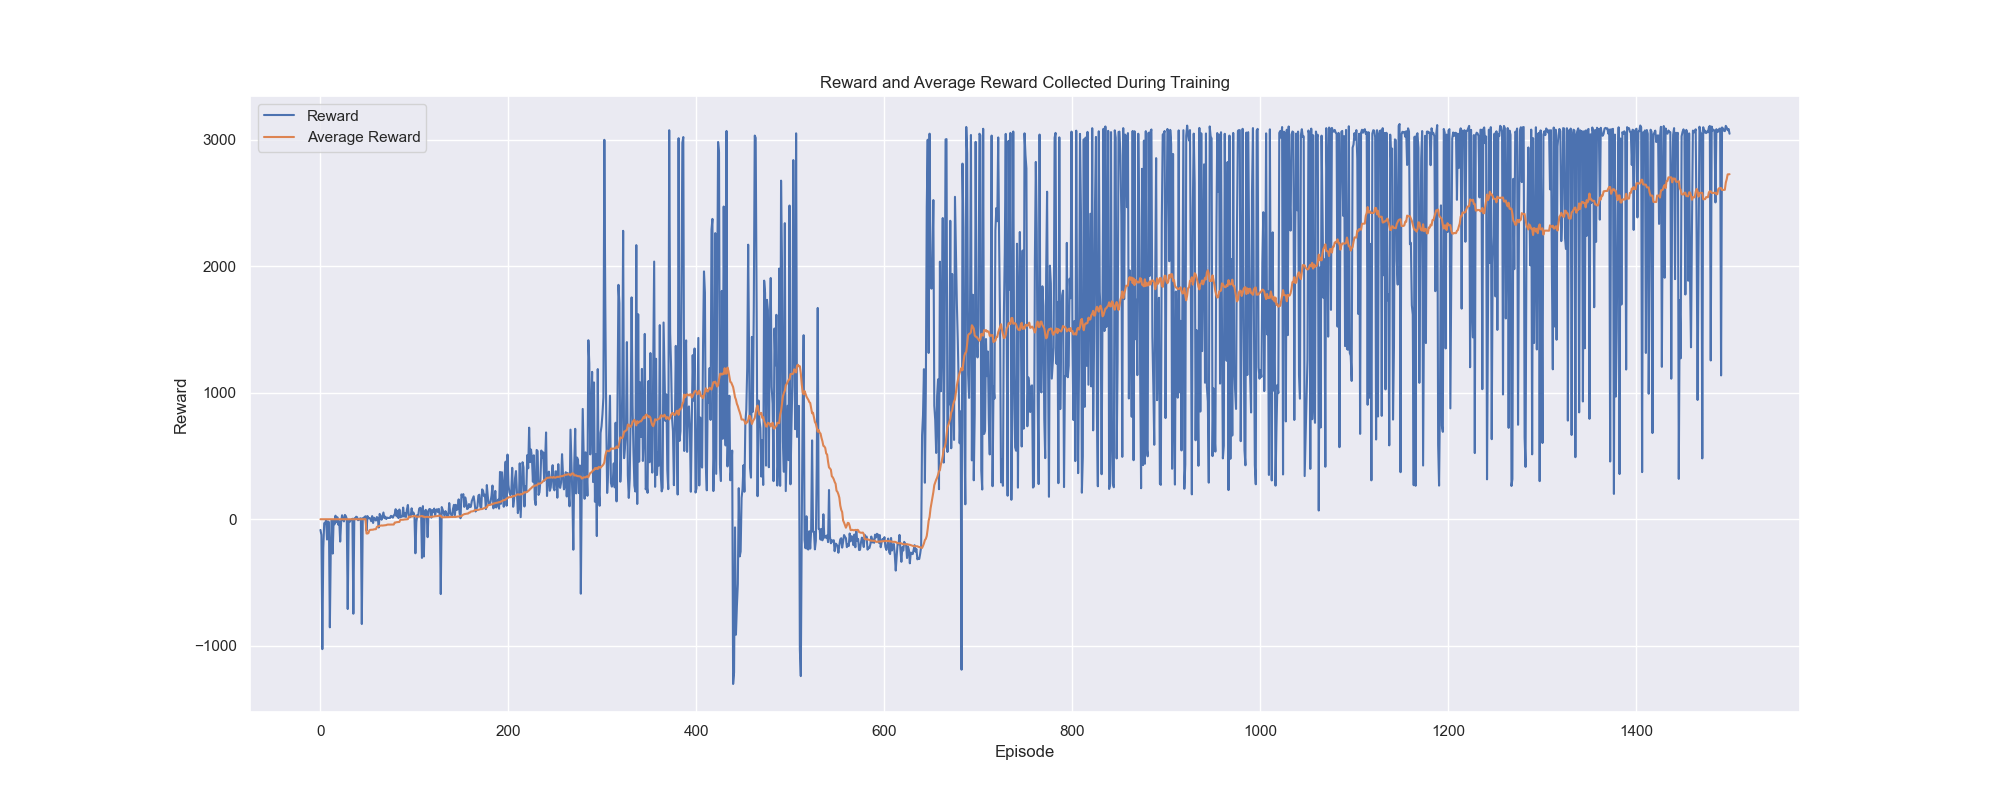
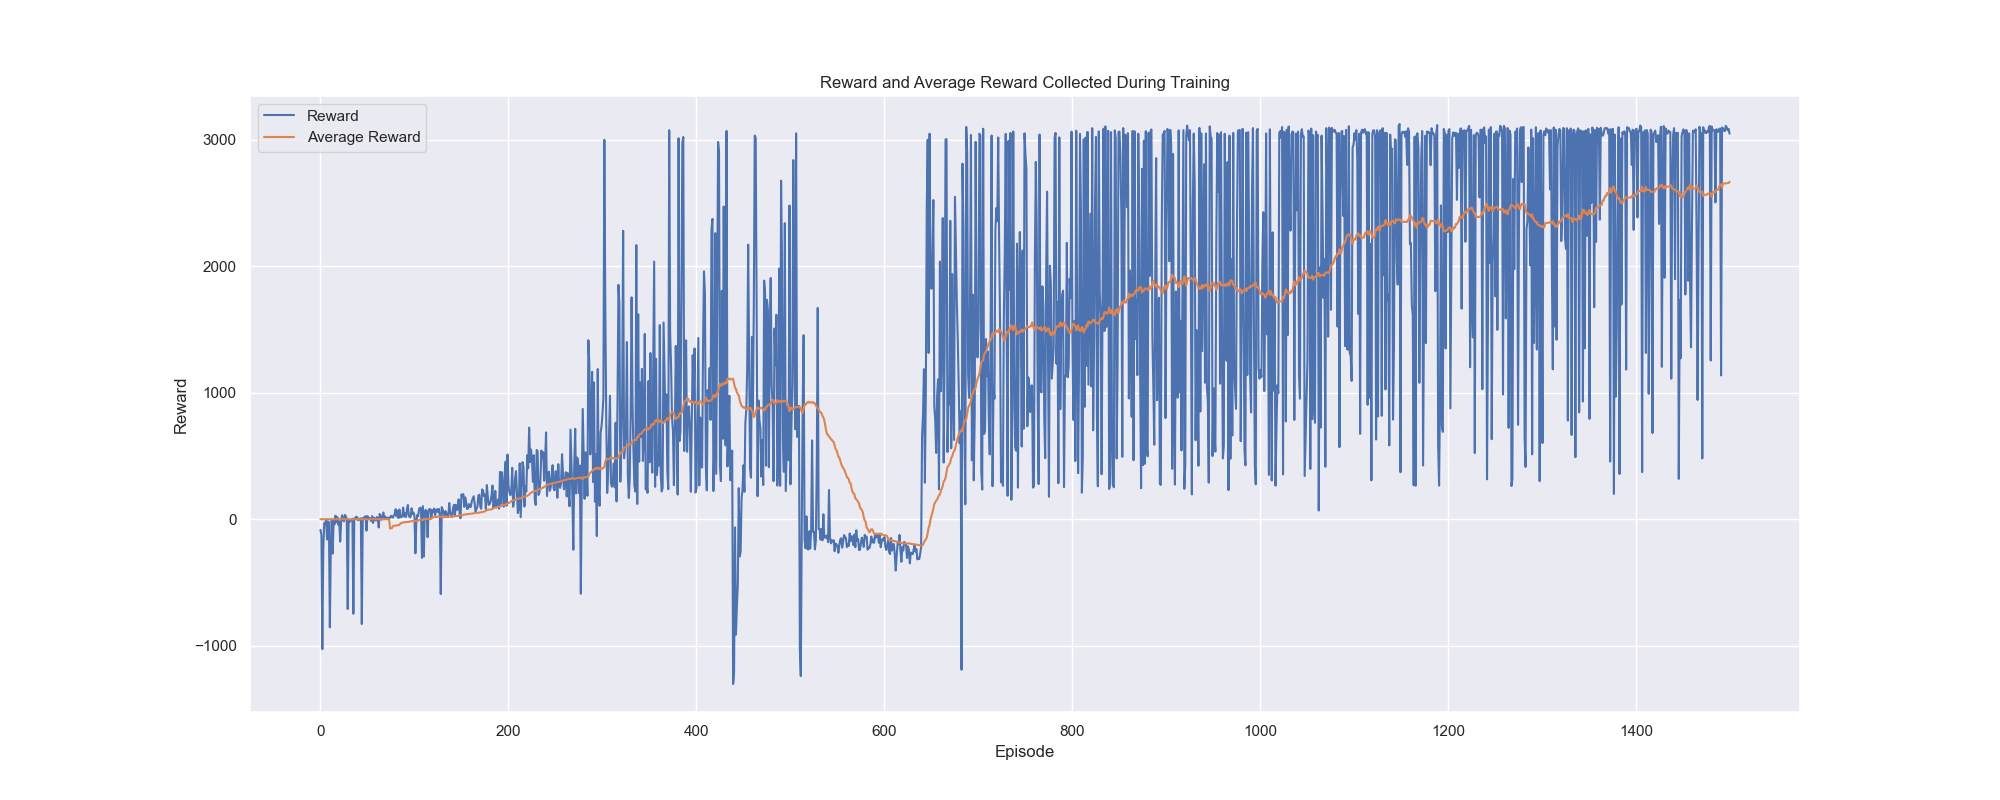
update plot

diff --git a/src/utilities.py b/src/utilities.py
@@ -5,6 +5,9 @@ import errno
 import matplotlib.pyplot as plt
 import numpy as np
 
+AVERAGE_STOP = 75
+FIGURE_SIZE = (20, 8)
+
 def get_data(exp_name: str) -> dict:
     """
     find json file and load the data
@@ -59,15 +62,14 @@ def plot_reward(exp_name: str):
     x = np.arange(0, episode_num)
     reward = np.zeros(episode_num)
     average_reward = reward.copy()
-    average_stop = 50
     for i in range(episode_num):
         reward[i] = data[i]['reward']
-        if i >= average_stop - 1:
-            average_reward[i] = np.mean(reward[i - average_stop + 1: i])
+        if i >= AVERAGE_STOP - 1:
+            average_reward[i] = np.mean(reward[i - AVERAGE_STOP + 1: i])
 
     # set seaborn style
     sns.set() 
-    plt.figure(figsize=(20, 8))
+    plt.figure(figsize=FIGURE_SIZE)
     plt.plot(x, reward, label='Reward')
     plt.plot(x, average_reward, label='Average Reward')
     plt.legend()
@@ -127,7 +129,7 @@ def plot_success(exp_name: str):
 
     # set seaborn style
     sns.set() 
-    plt.figure(figsize=(20, 8))
+    plt.figure(figsize=FIGURE_SIZE)
     plt.plot(x, success, label='Number of Successful Episodes')
     plt.legend()
     plt.title("Number of Successful Episodes During Training")
@@ -136,7 +138,7 @@ def plot_success(exp_name: str):
     plt.savefig(os.path.join(os.getcwd(), "model", exp_name, "success.png"))
     plt.show()
 
-    plt.figure(figsize=(20, 8))
+    plt.figure(figsize=FIGURE_SIZE)
     # sns.distplot(every_success, rug=True)
     plt.bar(x=x, height=every_success, alpha=0.6, width = 0.8, 
             facecolor = 'deeppink', edgecolor = 'deeppink', lw=1, 
@@ -184,16 +186,15 @@ def plot_time(exp_name: str):
     total_time_np = np.zeros((episode_num))
     time_np = total_time_np.copy()
     time_average_np = time_np.copy()
-    episode_stop = 50
     for i in range(episode_num):
         total_time_np[i] = data[i]["total_time"]
         time_np[i] = data[i]["time"]
-        if i >= episode_stop - 1:
-            time_average_np[i] = np.mean(time_np[i - episode_stop + 1: i])
+        if i >= AVERAGE_STOP - 1:
+            time_average_np[i] = np.mean(time_np[i - AVERAGE_STOP + 1: i])
 
     # set seaborn style
     sns.set() 
-    plt.figure(figsize=(20, 8))
+    plt.figure(figsize=FIGURE_SIZE)
     plt.plot(x, total_time_np, label='Total Time Consumption')
     plt.legend()
     plt.title("Time Consumption During Training")
@@ -202,7 +203,7 @@ def plot_time(exp_name: str):
     plt.savefig(os.path.join(os.getcwd(), "model", exp_name, "time.png"))
     plt.show()
 
-    plt.figure(figsize=(20, 8))
+    plt.figure(figsize=FIGURE_SIZE)
     plt.bar(x=x, height=time_np, alpha=0.6, width = 0.8, 
             facecolor = 'darkblue', edgecolor = 'darkblue', lw=1, 
                 label='Time of Every Episode')
@@ -213,4 +214,58 @@ def plot_time(exp_name: str):
     plt.ylabel("Time (second)")
     plt.legend()
     plt.savefig(os.path.join(os.getcwd(), "model", exp_name, "timebar.png"))
+    plt.show()
+
+def plot_steps(exp_name: str):
+    """
+    plot steps
+    """
+    def get_data(exp_name: str) -> dict:
+        """
+        find json file and load the data
+        """
+        exp_dir = os.path.join(os.getcwd(), "model", exp_name)
+        file_name = os.path.join(exp_dir, "output.json")
+
+        # first check whether the experiment name is valid and the output.json 
+        # file exits
+        if os.path.exists(file_name):
+            # print(f"loading {file_name} ...")
+            pass
+        else :
+            raise FileNotFoundError(errno.ENOENT, os.strerror(errno.ENOENT), 
+                                    file_name)
+        
+        # load the output.json file
+        json_file = open(file_name, 'r')
+        data = json.loads(json_file.read())
+
+        return data
+
+    # load json file and get dict data
+    data = get_data(exp_name=exp_name)["episodes"]
+
+    # collect success number 
+    episode_num = len(data)
+    x = np.arange(0, episode_num)
+    steps = np.zeros((episode_num))
+    average_steps = steps.copy()
+    total_steps = 0
+    for i in range(episode_num):
+        current_steps = data[i]["steps"]
+        steps[i] = current_steps
+        if i >= AVERAGE_STOP - 1:
+            average_steps[i] = np.mean(steps[i - AVERAGE_STOP + 1: i])
+    
+    plt.figure(figsize=FIGURE_SIZE)
+    plt.bar(x=x, height=steps, alpha=0.6, width = 0.8, 
+            facecolor = 'orangered', edgecolor = 'orangered', lw=1, 
+                label='Steps of Every Episode')
+    plt.plot(x, average_steps, color="blueviolet", label=
+                "Average Steps of Every Episode")
+    plt.title("Number of Steps of Every Episode During Training")
+    plt.xlabel("Episode")
+    plt.ylabel("Number of Steps")
+    plt.legend()
+    plt.savefig(os.path.join(os.getcwd(), "model", exp_name, "steps.png"))
     plt.show()

diff --git a/plot.py b/plot.py
@@ -17,3 +17,6 @@ if __name__ == '__main__':
 
     # plot time
     plot_time(exp_name=args.exp_name)
+
+    # plot steps
+    plot_steps(exp_name=args.exp_name)
